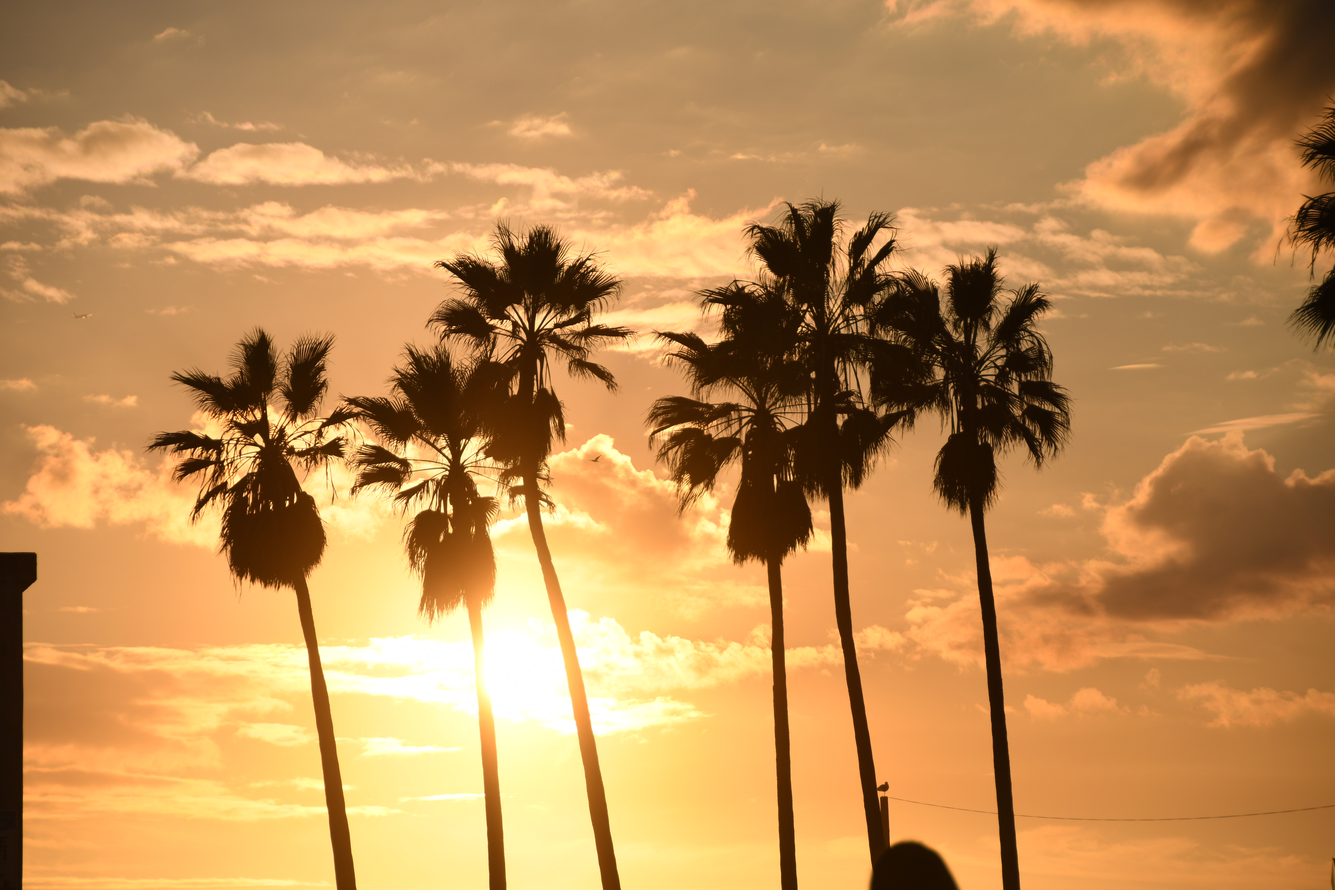
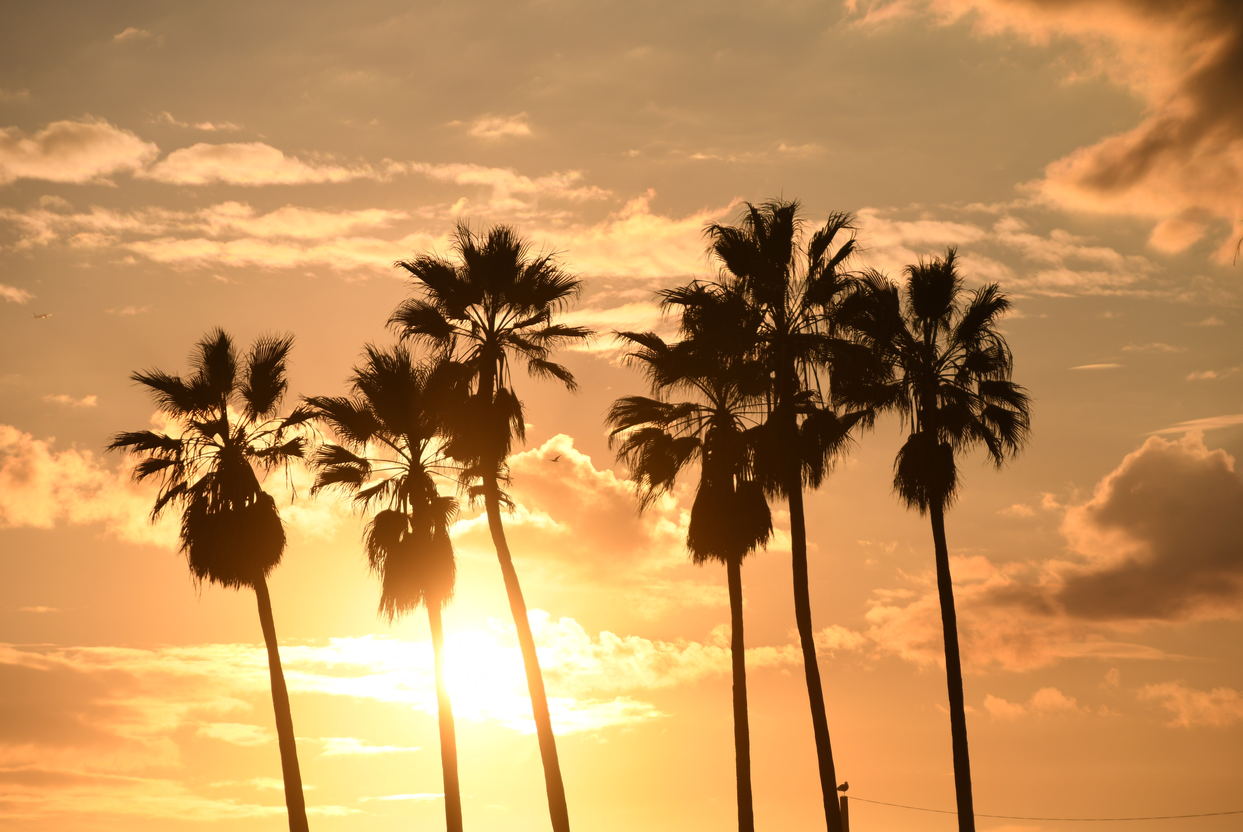
bruh idk at this point

diff --git a/assets/css/main.css b/assets/css/main.css
@@ -4006,10 +4006,10 @@ image.ugg {
 /* Landing */
 
 	body.landing #page-wrapper {
-		background-image:/* -moz-linear-gradient(top, rgba(0,0,0,0.25), rgba(0,0,0,0.25)),*/ url("../../images/pic03V2.jpg");
-		background-image: /*-webkit-linear-gradient(top, rgba(0,0,0,0.25), rgba(0,0,0,0.25)),*/ url("../../images/pic03V2.jpg");
-		background-image: /*-ms-linear-gradient(top, rgba(0,0,0,0.25), rgba(0,0,0,0.25)),*/ url("../../images/pic03V2.jpg");
-		background-image: /*linear-gradient(top, rgba(0,0,0,0.25), rgba(0,0,0,0.25)),*/ url("../../images/pic03V2.jpg");
+		background-image:/* -moz-linear-gradient(top, rgba(0,0,0,0.25), rgba(0,0,0,0.25)),*/ url("../../images/pic03.jpg");
+		background-image: /*-webkit-linear-gradient(top, rgba(0,0,0,0.25), rgba(0,0,0,0.25)),*/ url("../../images/pic03.jpg");
+		background-image: /*-ms-linear-gradient(top, rgba(0,0,0,0.25), rgba(0,0,0,0.25)),*/ url("../../images/pic03.jpg");
+		background-image: /*linear-gradient(top, rgba(0,0,0,0.25), rgba(0,0,0,0.25)),*/ url("../../images/pic03.jpg");
 		background-attachment: fixed;
 		background-position: center center;
 		background-repeat: no-repeat;
@@ -4027,10 +4027,10 @@ image.ugg {
 
 	body.is-mobile.landing #banner,
 	body.is-mobile.landing .wrapper.style4 {
-		background-image: /*-moz-linear-gradient(top, rgba(0,0,0,0.25), rgba(0,0,0,0.25)),*/ url("../../images/pic03V2.jpg");
-		background-image: /*-webkit-linear-gradient(top, rgba(0,0,0,0.25), rgba(0,0,0,0.25)),*/ url("../../images/pic03V2.jpg");
-		background-image: /*-ms-linear-gradient(top, rgba(0,0,0,0.25), rgba(0,0,0,0.25)),*/ url("../../images/pic03V2.jpg");
-		background-image: /*linear-gradient(top, rgba(0,0,0,0.25), rgba(0,0,0,0.25)),*/ url("../../images/pic03V2.jpg");
+		background-image: /*-moz-linear-gradient(top, rgba(0,0,0,0.25), rgba(0,0,0,0.25)),*/ url("../../images/pic03.jpg");
+		background-image: /*-webkit-linear-gradient(top, rgba(0,0,0,0.25), rgba(0,0,0,0.25)),*/ url("../../images/pic03.jpg");
+		background-image: /*-ms-linear-gradient(top, rgba(0,0,0,0.25), rgba(0,0,0,0.25)),*/ url("../../images/pic03.jpg");
+		background-image: /*linear-gradient(top, rgba(0,0,0,0.25), rgba(0,0,0,0.25)),*/ url("../../images/pic03.jpg");
 		background-position: center center;
 		background-repeat: no-repeat;
 		background-size: cover;

diff --git a/joshtortugaphotography.html b/joshtortugaphotography.html
@@ -10,6 +10,7 @@
 		<meta charset="utf-8" />
 		<meta name="viewport" content="width=device-width, initial-scale=1, user-scalable=no" />
 		<link rel="stylesheet" href="assets/css/main.css" />
+		<link rel="icon" type="image/png" href="assets/css/images/favicon-32x32.png">
 		<noscript><link rel="stylesheet" href="assets/css/noscript.css" /></noscript>
 	</head>
 	<body class="is-preload">
